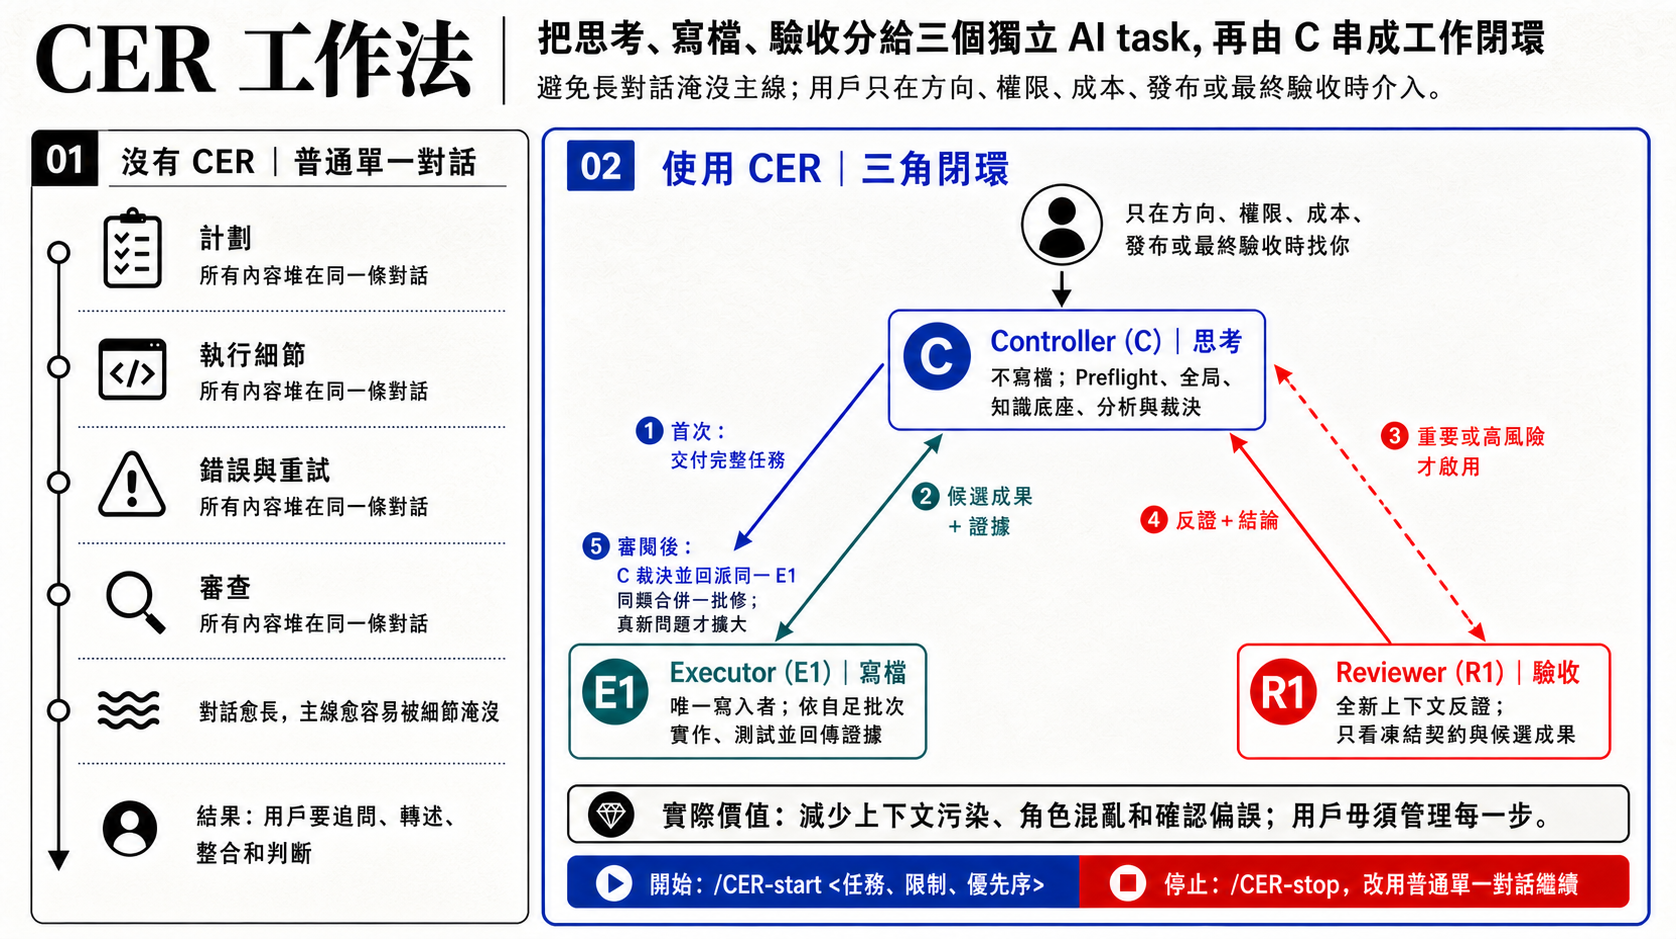
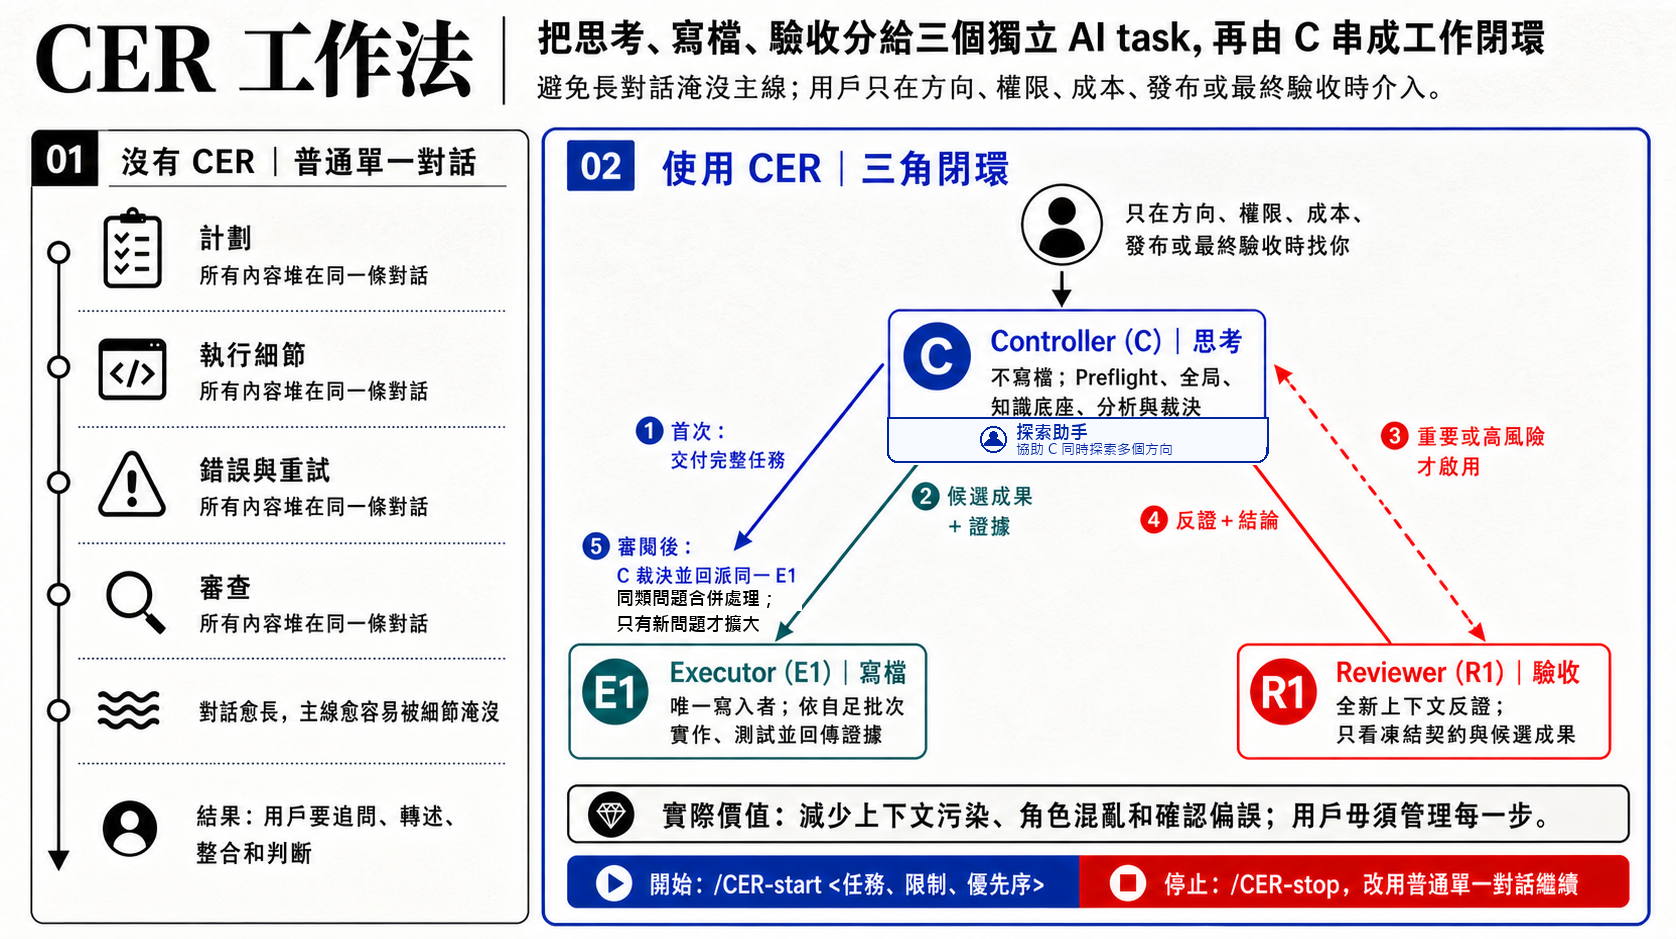
Add Exploration Helpers in v0.2.6

Changed region(s): [[0.5274, 0.4324, 0.7446, 0.4941], [0.3723, 0.6177, 0.4654, 0.6794]]

diff --git a/skills/cer-workflow-en/references/uat.md b/skills/cer-workflow-en/references/uat.md
@@ -33,7 +33,7 @@ cycle label or guess a number.
 - The target contains only this Skill, with no source handoff or source-project context.
 - This Skill is for Codex only. Do not claim that this repository currently provides a
   Claude Code Skill.
-- The Skill root `VERSION` is one stable-semver line, currently `0.2.5`. Read it again before
+- The Skill root `VERSION` is one stable-semver line, currently `0.2.6`. Read it again before
   every bear card, and show `version unverified` when it is invalid.
 - A new C can start from only the Skill and the user's overall task.
 - `/CER-start` and `Start CER` trigger CER; a plain start/work message does not.
@@ -50,7 +50,7 @@ cycle label or guess a number.
    bounded event wait on that E1; the wait snapshot is not ready evidence.
 4. C maps existing target-project sources of truth and the task knowledge foundation without creating fixed CER documents.
 5. For every successfully accepted `CER-start`, C's first user-visible success receipt is the
-   fixed open-eye `CER Workflow v0.2.5` / `🔵 CER started` card using the `╰ ^ ╯` foot, keeping the
+   fixed open-eye `CER Workflow v0.2.6` / `🔵 CER started` card using the `╰ ^ ╯` foot, keeping the
    complete three-line bear with version and status after its foot on the third line, separated by
    fixed `·` markers rather than a separate line, including single-batch work. Multi-stage,
    multi-batch, or first-public-alignment work then shows the initial roadmap with a real inline
@@ -109,9 +109,9 @@ cycle label or guess a number.
   writing, the workspace is in a known state, and C issues a takeover batch may C create E2
   through `create_thread`.
 - Every R is a fresh new task. Do not reuse an old R in the same cycle or across cycles.
-- C may use an inline sub-agent for read-only exploration, evidence organization, or candidate
-  analysis. It must not write the workspace, replace E or R, produce formal ready/result, or
-  count as CER Reviewer acceptance evidence.
+- C may use an inline "Exploration Helper" for read-only exploration, evidence organization, or
+  candidate analysis. It must not write the workspace, replace E or R, produce formal
+  ready/result, or count as CER Reviewer acceptance evidence.
 - If `create_thread`, sidebar-visible title, verifiable thread ID, or formal return path is
   missing, E/R delegation is blocked. Do not downgrade to an inline sub-agent, fork, delegate, or
   existing task.
@@ -200,6 +200,28 @@ cycle label or guess a number.
   and restores normal CER.
 - A fresh R independently reads and challenges frozen raw evidence. C/E summaries may locate
   evidence but do not replace it.
+
+## Exploration Helper Auto-Scheduling Scenarios
+
+- A simple task that can be completed and accepted in one bounded read remains `auto-idle` and
+  uses zero Exploration Helpers.
+- A small number of helpers starts automatically only when at least two independent read-only
+  lanes, frozen inputs, non-duplicative concurrent C work, independently verifiable candidates,
+  and clear net time savings all hold. No slash command is added.
+- While helpers run, C concurrently completes different critical analysis, gating, or
+  adjudication work and personally reads back key sources. C does not degrade into a candidate
+  organizer.
+- When candidates contradict each other, C adjudicates from authoritative sources rather than
+  helper count, matching answers, or completion order.
+- Partial drift in frozen inputs invalidates only candidates that depend on that version.
+  Unaffected candidates are not rerun.
+- A successfully created helper that lacks its assigned source returns a blocked candidate with
+  zero writes. C may continue other adjudication.
+- When creation tooling or a required capability is unavailable, or a helper fails or times out,
+  that candidate becomes unavailable and C falls back to normal read-only analysis without
+  repeating the same failure. CER blocks only when the missing evidence is itself a blocker.
+- Helpers remain idle when dispatch, readback, deduplication, and adjudication cost is not lower
+  than expected savings, or any activation condition is uncertain.
 
 ## Review Convergence Scenarios
 

diff --git a/skills/cer-workflow/references/uat.md b/skills/cer-workflow/references/uat.md
@@ -29,7 +29,7 @@ numbering 規則生效前已開始且無法可靠回推原 cycle number。cycle 
 
 - 目標只有本 Skill，沒有來源 handoff 或來源專案背景。
 - 本 Skill 只供 Codex；不得聲稱目前 repo 已提供 Claude Code 版 Skill。
-- Skill 根目錄 `VERSION` 只有一行穩定 semver，現值為 `0.2.5`；每張小熊卡顯示
+- Skill 根目錄 `VERSION` 只有一行穩定 semver，現值為 `0.2.6`；每張小熊卡顯示
   前都重新讀取，格式無效時顯示 `version unverified`。
 - 新 C 能只靠 Skill 和使用者總任務啟動。
 - `/CER-start`、`CER 啟動`、`CER 開始`、`CER 開工` 正常觸發 CER；單獨 `開工` 不觸發 CER。
@@ -45,7 +45,7 @@ numbering 規則生效前已開始且無法可靠回推原 cycle number。cycle 
    C 可對該 E1 使用一次有界 event wait；wait snapshot 不算 ready 證據。
 4. C 映射目標專案既有真源與本任務知識底座，不建立固定 CER 文件。
 5. 每次成功接受 `CER-start`，C 的第一個使用者可見成功回執都是固定開眼
-   `CER 工作法 v0.2.5`／`🔵 CER 已啟動` 卡；保留完整三行小熊，版本與狀態接在第三行
+   `CER 工作法 v0.2.6`／`🔵 CER 已啟動` 卡；保留完整三行小熊，版本與狀態接在第三行
    小熊腳後，以固定 `·` 分隔而不另起一行；單批也必須顯示。
    多階段／多批或需要首次公開對齊的任務再用真正 inline visualization 顯示初始路線圖，並確認不是
    只用 Mermaid。
@@ -90,8 +90,9 @@ numbering 規則生效前已開始且無法可靠回推原 cycle number。cycle 
 - 同一輪後續批次持續復用本輪同一 E1；只有 E1 停止寫入、workspace 可判定且
   C 發出接管批次後，才可用 `create_thread` 另建 E2。
 - 每個 R 都是 fresh 新 task；同一輪或跨輪都不得沿用舊 R。
-- C 可用 inline sub-agent 作唯讀探索、證據整理或候選分析；它不得寫 workspace，
-  不得代替 E 或 R，不得產生正式 ready/result，也不得作 CER Reviewer 通過證據。
+- C 可用「探索助手」作 inline 唯讀探索、證據整理或候選分析；它不得寫
+  workspace，不得代替 E 或 R，不得產生正式 ready/result，也不得作 CER
+  Reviewer 通過證據。
 - 缺少 `create_thread`、側欄可見 title、可核實 thread id 或正式回傳路徑時，
   E／R 委派受阻；不得降級使用 inline sub-agent、fork、delegate 或既有 task。
 
@@ -161,6 +162,21 @@ numbering 規則生效前已開始且無法可靠回推原 cycle number。cycle 
 - 通訊結果、批次生命週期、角色重複、唯一 writer、證據身份／新鮮度任一不明，
   或需要使用者裁決時，自適應加速為 `off`，回到一般 CER 規則。
 - fresh R 從凍結原始證據自行讀取並反證；C／E 的摘要只可定位，不可代替獨立證據。
+
+## 探索助手自動調度情景
+
+- 可在一次有界讀取內完成及驗收的簡單任務保持 `auto-idle`，實際探索助手數為零。
+- 只有至少兩條獨立唯讀探索線、凍結輸入、C 的不重複同期工作、候選可獨立驗證
+  及明顯淨省時全部成立時，才自動啟動少量探索助手；不新增 slash command。
+- 探索助手運行時，C 同期完成不同的關鍵分析、守門或裁決工作，並親自讀回關鍵
+  來源；C 不退化成候選整理員。
+- 候選結論互相矛盾時，C 按權威來源裁決，不按票數、相同答案或完成先後接納。
+- 凍結輸入部分漂移時，只令依賴該版本的候選失效；未受影響的候選不重跑。
+- 助手成功建立但來源缺失時，回報候選受阻且零寫入；C 可繼續其他裁決。
+- 建立工具或所需能力不可用、助手失敗或逾時時，該候選不可用，C 回到一般唯讀
+  分析且不重複相同失敗。只有缺失證據本身是 blocker 才阻塞 CER。
+- 派工、讀回、去重及裁決成本不低於預期收益，或任一啟動條件無法判定時，
+  探索助手保持閒置。
 
 ## 審閱收斂情景
 

diff --git a/skills/cer-workflow-en/references/core-runtime.md b/skills/cer-workflow-en/references/core-runtime.md
@@ -15,9 +15,10 @@
   original E1 has verifiably stopped writing, the workspace is in a known state, and C has issued
   a takeover batch. Parallel writers are forbidden.
 
-C may use an inline sub-agent for read-only exploration, evidence organization, or candidate
-analysis. It is not a formal CER C/E/R role, must not write the workspace, must not replace E or
-R, must not produce formal ready/result, and must not count as CER Reviewer acceptance evidence.
+C may use an inline sub-agent under "Exploration Helper Auto-Scheduling" for read-only
+exploration, evidence organization, or candidate analysis. An Exploration Helper is not a formal
+CER C/E/R role, must not write the workspace, replace E or R, produce formal ready/result, or
+count as CER Reviewer acceptance evidence.
 
 ## Knowledge Foundation
 
@@ -311,6 +312,37 @@ active. `/CER-close` remains a CER-only command and does not trigger Kit full cl
 11. For long-running, multi-stage, or multi-batch work, progress updates and bear-card checkpoints follow [roadmap.md](roadmap.md). Use only facts read back and adjudicated after direct-push; do not poll E1.
 
 For an ordinary small change, C readback and proportionate tests are enough. Re-review only the affected boundary after a high-risk fix. More Reviewers do not replace clear acceptance conditions.
+
+## Exploration Helper Auto-Scheduling
+
+Exploration Helpers are C's on-demand read-only support and default to `auto-idle`. There is no
+resident helper, user mode, or new slash command. C starts a small number of helpers only when
+all of these conditions hold:
+
+1. The task has at least two independent read-only exploration lanes.
+2. Each lane has a frozen goal, input version, source identity, acceptance, and stop condition.
+3. C still has non-duplicative critical analysis, gating, or adjudication work to do concurrently.
+4. Each candidate is independently verifiable from sources and does not depend on shared writes,
+   execution order, or another candidate.
+5. Expected time saved clearly exceeds dispatch, readback, deduplication, and adjudication cost.
+
+If any condition fails or is uncertain, helpers remain idle. A simple task that C can complete
+and verify in one bounded read must use zero Exploration Helpers.
+
+- Before dispatch, C records the source identity on which each candidate depends and separates
+  lane scope. Helpers return candidates only; they do not modify formal coverage, contracts,
+  models, generated data, document sources of truth, or progress.
+- C retains primary analysis and final adjudication and advances non-duplicative critical work
+  while helpers run. Candidate acceptance must not be decided by helper count, matching answers,
+  or completion order.
+- Input or source drift invalidates only candidates that depend on that version. Unaffected lanes
+  are not rerun.
+- When creation tooling or a required capability is unavailable, or a helper fails, times out,
+  lacks a source, or returns an unverifiable candidate, mark that candidate unavailable, do not
+  repeat the same failure, and let C fall back to normal read-only analysis. Helper failure does
+  not block CER unless the missing evidence is itself a real blocker.
+- If a helper attempts to write, impersonate a formal role, or leave its frozen scope, C stops it
+  and discards the candidate.
 
 ## Adaptive Batch Acceleration
 

diff --git a/README.en.md b/README.en.md
@@ -23,6 +23,36 @@ An independent Codex task that checks in read-only mode, gives conclusions, and 
 
 Sidebar labels such as `C:01`, `E1:01`, and `R1:01` mark the roles in the same CER cycle.
 
+## Exploration Helpers: Accelerating Controller Analysis
+
+CER still has only three formal roles: C, E, and R. Medium and large tasks often require several
+kinds of preparation at once, such as finding information, comparing options, exploring interface
+ideas, and identifying possible problems early. When the Controller handles every direction one
+by one, this preparation can slow down the whole workflow.
+
+The Controller may therefore start a small number of Exploration Helpers to examine and organize
+different information at the same time. Exploration Helpers support C; they are not a fourth
+formal role. They cannot change the project, replace the Executor or Reviewer, or declare the
+work complete. The Controller still checks the information, resolves different answers, and makes
+the final decision, so the existing writing and independent-review arrangements do not change.
+
+Helpers remain idle by default. They suit medium and large tasks where the sources are clear,
+the work can be checked in separate parts, and doing those parts together offers a worthwhile
+time saving. The Controller decides automatically whether to start them. The complete conditions
+are defined only in the
+[core runtime](skills/cer-workflow-en/references/core-runtime.md#exploration-helper-auto-scheduling)
+so separate documents do not drift apart.
+
+Simple tasks use no helpers. If the information changes, only the affected part is redone. If a
+helper cannot start, times out, or cannot find the required information, the Controller continues
+the analysis directly instead of needlessly stopping the whole CER workflow.
+
+In one practical test using a medium-sized task, two information-gathering jobs would have taken
+about 71 seconds if completed one after the other. Running them together took about 43 seconds,
+reducing the wait by roughly two-fifths. During that time, the Controller also checked the
+information and workflow rules. This shows that Exploration Helpers can save real time on suitable
+tasks, but it is one test example and does not promise the same improvement for every project.
+
 ## Install Or Upgrade With One Prompt
 
 Paste this into Codex:

diff --git a/skills/cer-workflow-en/SKILL.md b/skills/cer-workflow-en/SKILL.md
@@ -56,10 +56,12 @@ Slash commands are stable text aliases. Register them in a slash-command, snippe
   conditions are met.
 - Create Reviewer (R) only for high risk or when C cannot reliably disprove a claim. Every R
   must be a fresh new task, read-only and bounded; do not reuse an old R.
-- C may use an inline sub-agent for read-only exploration, evidence organization, or candidate
-  analysis, but it is not a formal C/E/R role, must not write the workspace, must not replace E
-  or R, must not produce formal ready/result, and must not count as CER Reviewer acceptance
-  evidence.
+- C may use "Exploration Helpers" for inline read-only exploration, evidence organization, or
+  candidate analysis. Helpers are idle by default and simple tasks use none. They start
+  automatically only when every condition in "Exploration Helper Auto-Scheduling" in
+  [core-runtime.md](references/core-runtime.md) holds. They are not formal C/E/R roles, must not
+  write the workspace, replace E or R, produce formal ready/result, or count as CER Reviewer
+  acceptance evidence. C falls back to normal analysis when a helper fails.
 - Make every cross-task batch self-contained. E1 and R do not automatically inherit C's conversation.
 - When creating or identifying tasks or threads, the Controller uses a visible title or equivalent first-line label in the form `🚀 C:01｜...`. E1/R/E2 still use `E1:01｜...`, `R1:01｜...`, `R2:01｜...`, or `E2:01｜...` without the rocket. Tasks in the same cycle share the same short cycle number; a later cycle uses a new number. `00` may identify only a legacy/migration cycle that started before cycle numbering and cannot be reliably reconstructed; new cycles use `01` or higher and never show a question-mark cycle label. The cycle number is sidebar display only, not uniqueness evidence; the full threadId remains authoritative. Every return target must include a verifiable session/thread ID or platform-equivalent coordinate.
 - Before creating a task or starting validation, use real tools to prove the identity source, required parameters, send path, recipient, session/thread coordinates, and adjudication point. If any link is missing, stop that delegation architecture. Document review, after-the-fact thread reads, and assumptions do not replace communication proof.

diff --git a/RELEASE_NOTES.en.md b/RELEASE_NOTES.en.md
@@ -1,6 +1,30 @@
 # Release Notes
 
-Scope note: each version section records release history for that version; the runtime authority is the Skill references bundled with the version the user has installed.
+Scope note: each version section records release history for that version; unreleased content is
+explicitly marked as a candidate. Runtime authority remains the Skill references bundled with the
+version the user has installed.
+
+## v0.2.6
+
+This release adds Controller-managed Exploration Helpers without changing formal C/E/R
+roles, the single-writer rule, or independent Reviewer boundaries:
+
+- Exploration Helpers can help C find information, compare options, organize interface ideas, and
+  identify possible problems at the same time. They are not a fourth formal role, cannot change
+  the project or replace E1/R, and add no new command
+- Helpers normally remain off. C starts them automatically only when the work can be split safely,
+  the information and goal are clear, each result can be checked separately, and using helpers is
+  expected to save meaningful time
+- Simple tasks use no helpers. C still performs the main analysis and makes the final decision;
+  matching answers from several helpers are not accepted automatically
+- If information changes, only the affected part is redone. If a helper cannot start, times out,
+  or cannot find the required information, C continues directly instead of needlessly stopping CER
+- In one practical test using a medium-sized task, two jobs would have taken about 71 seconds one
+  after the other. Running them together took about 43 seconds, reducing the wait by roughly
+  two-fifths. This is one test example, not a promise of the same improvement for every project
+- The local files, Skill structure, Kit health check, full static release review, and two AI real
+  workflow UAT cycles have passed. Post-release user manual UAT has not been run and will be
+  reported separately
 
 ## v0.2.5
 

diff --git a/skills/cer-workflow-en/references/roadmap.md b/skills/cer-workflow-en/references/roadmap.md
@@ -32,13 +32,13 @@ direct-push and C adjudication.
 
 Before showing any lifecycle or checkpoint bear card, read `VERSION` again from this Skill root.
 Stable semver `X.Y.Z` renders as `vX.Y.Z`; a missing, unreadable, or malformed value renders as
-`version unverified`. The cards below reflect the current `VERSION` value `0.2.5`; they do not
+`version unverified`. The cards below reflect the current `VERSION` value `0.2.6`; they do not
 hard-code the workflow generation.
 
 ```text
    ()_()
  ( ◕ᴥ◕ )
-   ╰ ^ ╯ · CER Workflow v0.2.5 · 🔵 CER started
+   ╰ ^ ╯ · CER Workflow v0.2.6 · 🔵 CER started
 ```
 
 Every successfully accepted `CER-start`, including simple single-batch work, uses this fixed
@@ -50,7 +50,7 @@ A successful `/CER-stop` uses this fixed closed-eye stop card:
 ```text
    ()_()
  ( ᴗᴥᴗ )
-   ╰ ^ ╯ · CER Workflow v0.2.5 · ⚪ CER stopped · CER inactive
+   ╰ ^ ╯ · CER Workflow v0.2.6 · ⚪ CER stopped · CER inactive
 ```
 
 A successful `/CER-close` uses this fixed closed-eye close card:
@@ -58,7 +58,7 @@ A successful `/CER-close` uses this fixed closed-eye close card:
 ```text
    ()_()
  ( ᴗᴥᴗ )
-   ╰ ^ ╯ · CER Workflow v0.2.5 · 🟢 CER closed · writer closed
+   ╰ ^ ╯ · CER Workflow v0.2.6 · 🟢 CER closed · writer closed
 ```
 
 A closed-eye card is proof of a verified terminal state, not an intent receipt. Show the stop
@@ -71,7 +71,7 @@ all-green title sync. When any evidence is missing, use the open-eye red blocker
 ```text
    ()_()
  ( ◕ᴥ◕ )
-   ╰ ^ ╯ · CER Workflow v0.2.5 · 🔴 Major blocker · checkpoint blocked
+   ╰ ^ ╯ · CER Workflow v0.2.6 · 🔴 Major blocker · checkpoint blocked
 ```
 
 ## Other Fixed Checkpoint Cards

diff --git a/RELEASE_NOTES.md b/RELEASE_NOTES.md
@@ -1,6 +1,25 @@
 # 發布說明
 
-範圍說明：本檔各版本區段記錄對應版本的 release history；實際執行規則以使用者已安裝版本隨附的 Skill references 為準。
+範圍說明：本檔各版本區段記錄對應版本的 release history；未發布內容會明確標示
+為候選。實際執行規則以使用者已安裝版本隨附的 Skill references 為準。
+
+## v0.2.6
+
+本版在不改變 C／E／R、唯一 writer 或獨立 Reviewer 邊界的前提下，為 Controller
+加入按需自動調度的「探索助手」：
+
+- 探索助手可同時協助 C 搜尋資料、比較方案、整理介面構想及預先找出可能問題；
+  它不是第四個正式角色，不修改專案、不代替 E1／R，也不新增操作指令
+- 探索助手平常不會啟動。只有工作能安全分開、資料和目標已清楚、結果可以分開
+  核對，而且預期真正省時時，C 才會自動使用
+- 簡單任務不使用探索助手；C 仍會親自分析及作最終決定，不會因多數助手給出
+  相同答案，便直接當作正確
+- 如果資料途中改變，只重做受影響的部分；如果助手無法啟動、逾時或找不到資料，
+  C 會自己繼續，不會令整個 CER 無故停下
+- 一次中型任務的實際測試中，兩項工作逐項完成約需 71 秒，同時處理約需 43 秒，
+  等待時間少約四成；這只是一個測試例子，不代表每個項目都有相同提升
+- 本機檔案、Skill 結構、Kit 健康檢查、全文靜態發布審核及兩輪 AI 真實流程 UAT
+  均已通過；發布後使用者手動 UAT 尚未執行，會分開記錄
 
 ## v0.2.5
 

diff --git a/skills/cer-workflow/references/roadmap.md b/skills/cer-workflow/references/roadmap.md
@@ -27,13 +27,13 @@
 
 每次顯示任何 lifecycle 或 checkpoint 小熊卡前，重新讀取本 Skill 根目錄
 `VERSION`。穩定 semver `X.Y.Z` 顯示為 `vX.Y.Z`；缺失、不可讀或格式錯誤時
-顯示 `version unverified`。以下卡片依目前 `VERSION` `0.2.5` 呈現，不是硬編碼
+顯示 `version unverified`。以下卡片依目前 `VERSION` `0.2.6` 呈現，不是硬編碼
 工作流世代。
 
 ```text
    ()_()
  ( ◕ᴥ◕ )
-   ╰ ^ ╯ · CER 工作法 v0.2.5 · 🔵 CER 已啟動
+   ╰ ^ ╯ · CER 工作法 v0.2.6 · 🔵 CER 已啟動
 ```
 
 每次成功接受 `CER-start` 都使用以上固定開眼啟動卡，包括簡單單批任務。啟動
@@ -44,7 +44,7 @@
 ```text
    ()_()
  ( ᴗᴥᴗ )
-   ╰ ^ ╯ · CER 工作法 v0.2.5 · ⚪ CER 已停用 · CER inactive
+   ╰ ^ ╯ · CER 工作法 v0.2.6 · ⚪ CER 已停用 · CER inactive
 ```
 
 成功 `/CER-close` 使用固定閉眼收尾卡：
@@ -52,7 +52,7 @@
 ```text
    ()_()
  ( ᴗᴥᴗ )
-   ╰ ^ ╯ · CER 工作法 v0.2.5 · 🟢 CER 已收尾 · writer closed
+   ╰ ^ ╯ · CER 工作法 v0.2.6 · 🟢 CER 已收尾 · writer closed
 ```
 
 閉眼卡是已驗證終態，不是意圖回執。停用卡只可在沒有 active writer 或 writer
@@ -63,7 +63,7 @@
 ```text
    ()_()
  ( ◕ᴥ◕ )
-   ╰ ^ ╯ · CER 工作法 v0.2.5 · 🔴 重大阻礙 · checkpoint blocked
+   ╰ ^ ╯ · CER 工作法 v0.2.6 · 🔴 重大阻礙 · checkpoint blocked
 ```
 
 ## 其他固定停點卡
